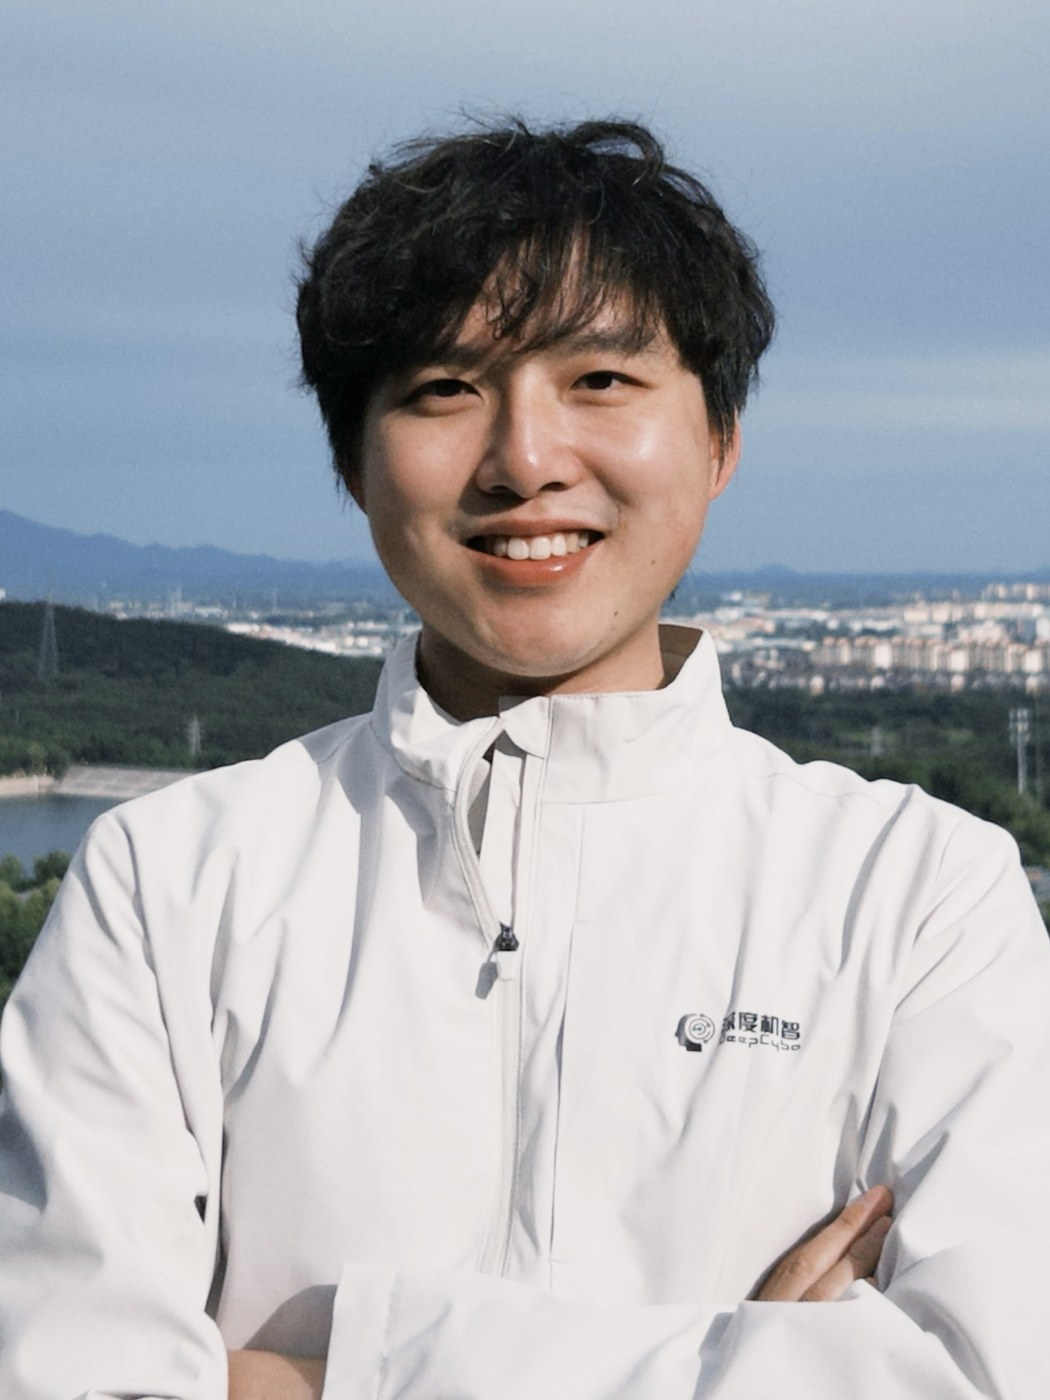
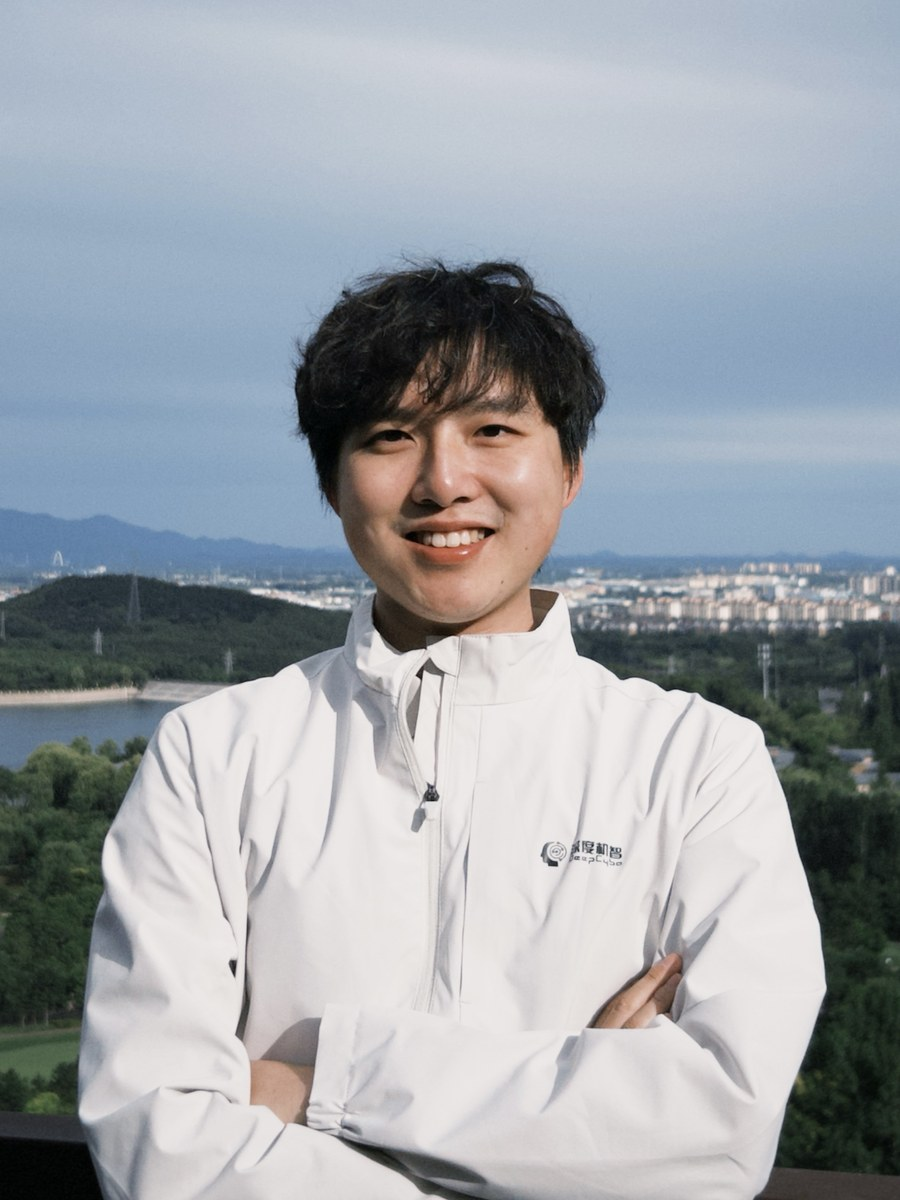
Refine Chinese homepage copy and portrait

diff --git a/index.html b/index.html
@@ -5,7 +5,7 @@
     <meta name="viewport" content="width=device-width, initial-scale=1.0" />
     <meta
       name="description"
-      content="刘浩辰的个人主页，关注人形机器人强化学习运动控制、VLA 空间表征奖励和具身智能系统。"
+      content="刘浩辰的个人主页，研究方向包括人形机器人强化学习运动控制、VLA 空间表征奖励和具身智能系统。"
     />
     <title>刘浩辰 | 机器人强化学习与具身智能</title>
     <link rel="icon" href="./favicon.svg" type="image/svg+xml" />
@@ -28,43 +28,42 @@
           <p class="eyebrow">机器人强化学习 · 具身智能 · 多模态策略学习</p>
           <h1>刘浩辰</h1>
           <p class="lead">
-            密歇根大学信息学院硕士，关注人形机器人强化学习运动控制、VLA 空间表征奖励，以及从仿真到真机的具身智能系统。近期在深度机智参与 Unitree G1 踢球 policy、PrimeU 仿真训练与重定向流程。
+            密歇根大学信息学院硕士在读，研究人形机器人强化学习运动控制、VLA 空间表征奖励，以及具身智能系统的仿真到真机部署。近期在深度机智参与 Unitree G1 踢球策略训练与真机部署，并推进 PrimeU 强化学习仿真和动作重定向流程。
           </p>
           <div class="link-row" aria-label="个人链接">
             <a href="mailto:liuhaoch@umich.edu">邮箱</a>
             <a href="https://github.com/Leo-Haochen-Liu">GitHub</a>
             <a href="https://www.kaggle.com/haochenliu001824/competitions">Kaggle</a>
             <a href="./assets/CV2026.pdf">简历</a>
-            <a href="./assets/portfolio-Haochen-Liu.pdf">设计作品存档</a>
           </div>
         </div>
         <div class="hero-media" aria-label="个人照片">
-          <img class="portrait" src="./assets/portrait.jpg" width="1050" height="1400" alt="刘浩辰照片" />
+          <img class="portrait" src="./assets/portrait.jpg" width="900" height="1200" alt="刘浩辰照片" />
         </div>
       </section>
 
       <section id="research" class="section">
         <div class="section-title">
           <p class="eyebrow">研究方向</p>
-          <h2>让机器人在稀疏、空间与物理信号中学习可落地的行为。</h2>
+          <h2>面向机器人策略学习，构建数据、奖励与真机部署闭环。</h2>
         </div>
         <div class="focus-grid">
           <article class="focus-item">
             <h3>人形机器人强化学习运动控制</h3>
             <p>
-              围绕 Unitree G1 踢球与 PRIME／PrimeU 灵巧操作，搭建动作捕捉、重定向、策略训练、物理校准与 ONNX 部署流程。
+              围绕 Unitree G1 踢球与 PRIME／PrimeU 操作任务，完成动作捕捉、动作重定向、策略训练、物理参数校准与 ONNX 部署。
             </p>
           </article>
           <article class="focus-item">
-            <h3>VLA 空间表征奖励</h3>
+            <h3>VLA 强化学习与空间奖励</h3>
             <p>
-              在 OpenVLA-OFT、SimpleVLA-RL 与 LIBERO-10 上探索 SpaRe-lite 式离线强化学习，用空间表征奖励缓解稀疏奖励问题。
+              基于 OpenVLA-OFT、SimpleVLA-RL 与 LIBERO-10，探索用空间表征奖励缓解稀疏奖励问题，并在有限算力下完成离线 RL 验证。
             </p>
           </article>
           <article class="focus-item">
             <h3>评测与数据构建</h3>
             <p>
-              关注仿真 rollout 数据构建、leak-safe 验证与 benchmark 驱动迭代，也将这套方法用于金融预测和生成式 SVG 任务。
+              负责仿真 rollout 与失败样本构建，配合 leak-safe 验证和 benchmark 迭代，强调结果可复现、结论可追溯。
             </p>
           </article>
         </div>
@@ -81,7 +80,7 @@
             <div class="work-body">
               <h3>深度机智：人形机器人强化学习运动控制</h3>
               <p>
-                参与人形机器人强化学习运动控制，覆盖 Unitree G1 踢球 policy 与 PrimeU 强化学习仿真训练流程。
+                参与 Unitree G1 踢球策略与 PrimeU 强化学习仿真流程，负责动作重定向、策略训练、ONNX 部署、真机验证和仿真基础整理。
               </p>
               <ul>
                 <li>基于 GVHMR／GMR／BeyondMimic 完成视频动作捕捉、重定向与策略训练。</li>
@@ -109,7 +108,7 @@
             <div class="work-body">
               <h3>机器人产品系统与具身交互</h3>
               <p>
-                早期工业设计工作集中在全尺寸人形机器人与仿生机器人产品，本体结构、外观约束和部署边界也持续影响我对具身 AI 系统的研究判断。
+                早期工业设计工作聚焦全尺寸人形机器人与仿生机器人产品，积累了对机器人本体结构、外观约束和部署边界的判断。
               </p>
             </div>
           </article>

diff --git a/styles.css b/styles.css
@@ -174,7 +174,7 @@ h3 {
 }
 
 .portrait {
-  width: min(100%, 320px);
+  width: min(100%, 280px);
   border: 1px solid var(--line);
   border-radius: 8px;
   object-fit: cover;
@@ -347,6 +347,6 @@ h3 {
   }
 
   .portrait {
-    max-width: 205px;
+    max-width: 190px;
   }
 }
